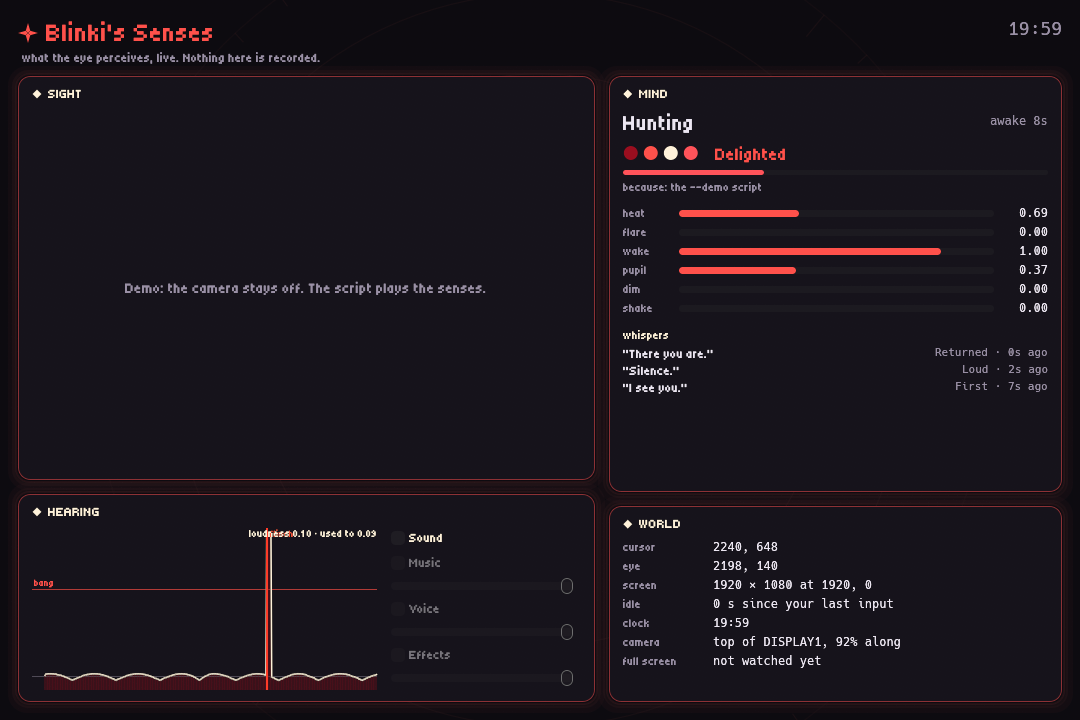
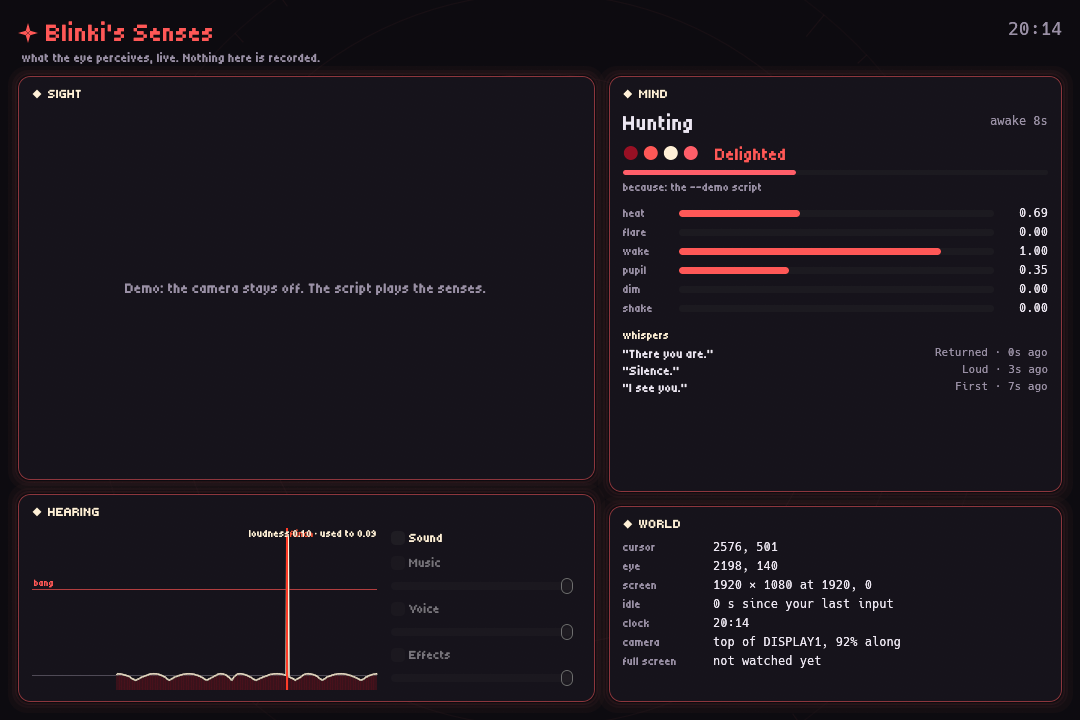
README: the new sphere in the GIF and stills; tool runs skip single instance
The hero GIF, the nine mood stills and the Blinki's Senses shot are
re-rendered from the app with the merged sphere (raymarched body,
layered aura) and the latest moods. The README now covers hiding for
full-screen apps, the opt-in wake word, the raymarched shader and
motion, 168 tests on Windows CI, and a 27.5 MB exe.

Runs with --record or --demo are tools, like --snap: they no longer
defer to a copy of the app that's already running.

diff --git a/rust/src/main.rs b/rust/src/main.rs
@@ -1681,8 +1681,8 @@ fn main() -> Result<(), Box<dyn Error>> {
     }
     let args = Args::parse();
     // One eye at a time. A second launch wakes the first and leaves. Runs
-    // with --snap are tools, so they don't take part.
-    let instance = if args.snap.is_some() {
+    // with --snap, --record or --demo are tools, so they don't take part.
+    let instance = if args.snap.is_some() || args.record.is_some() || args.demo {
         None
     } else {
         match session::SingleInstance::claim() {

diff --git a/README.md b/README.md
@@ -51,7 +51,9 @@ The eye sees you from the camera's spot but looks at you from its own, so it nee
 - **Whispers** under the eye in the Tiny5 pixel font, spoken aloud if you like by Windows' own local voice.
 - **A sound mixer**: Music (a live-synthesised drone), Voice, and Effects (a deep whoomp at a bang, a chime with each whisper), each with its own switch and volume, under one master.
 - **Themes, feelings and Remembrance**, as above. Reading your expression is opt-in and off by default.
-- **A tray menu** (also on right-click of the eye): hide, blind, whispers, Sound, click-through, start with the computer, Theme, Read my face, Remember our days, Forget our days, Blinki's Senses, Where's my camera?, Look at me, Banish.
+- **A tray menu** (also on right-click of the eye): hide, blind, whispers, Sound, click-through, hide when something's full screen, the wake word, start with the computer, Theme, Read my face, Remember our days, Forget our days, Blinki's Senses, Where's my camera?, Look at me, Banish.
+- **It gets out of the way.** Start a full-screen game, video or presentation, and it closes and hides, then fades back in, pouting, when you return.
+- **"Hey, OG Blinki"**: an opt-in wake word, matched on the computer by Windows' own speech recognizer, with no cloud. Off by default.
 - **One copy at a time.** Launching it again just wakes the eye.
 - **A per-user installer** with a Start menu shortcut and an uninstaller.
 
@@ -69,7 +71,7 @@ Measured on this PC (Windows 11, RTX 3060), with both apps idle and blinded, aga
 
 | | Electron | Rust |
 | --- | --- | --- |
-| What ships | 356.8 MB runtime + 0.5 MB of app | one exe, models and font inside (22.3 MB as measured; 27.4 MB now that the 4.8 MB expression model is in) |
+| What ships | 356.8 MB runtime + 0.5 MB of app | one exe, models and font inside (22.3 MB as measured; 27.5 MB now, with the 4.8 MB expression model and the new sphere) |
 | Installer | (none) | 7.6 MB setup |
 | Processes | 5 | 1 |
 | Working set | 448.7 MB | 134.9 MB |
@@ -78,9 +80,9 @@ Measured on this PC (Windows 11, RTX 3060), with both apps idle and blinded, aga
 
 ## Under the hood
 
-- **Rust** throughout, about 117 tests (`cargo test`), with the Electron code kept for reference until the switch-over.
+- **Rust** throughout, 168 tests (`cargo test`), checked on Windows CI with clippy and formatting, with the Electron code kept for reference until the switch-over.
 - **winit 0.30 + wgpu 30.** The eye is one fragment shader. For a transparent window on Windows, DX12 presents through a **DirectComposition** swapchain with **premultiplied alpha** (a plain swapchain can't be see-through), with Vulkan as a fallback. A transparent first frame means it never flashes a black box.
-- **The shader** is GLSL, compiled for DX12 or Vulkan by **naga**. The fire is 3D noise sampled on the sphere's surface, so it wraps with the ball, with a hotter inner layer seen through its veins and a solid pupil.
+- **The shader** is GLSL, compiled for DX12 or Vulkan by **naga**. The body is raymarched: a signed-distance sphere with layered fire inside, a hotter core seen through its veins, and a solid pupil. Around it sits a layered aura: rim bloom, halo, corona, tongues of light and curling embers. A small motion layer gives the mind's wishes a body (breath, gaze velocity, a wince). Frame pacing keeps it light when nothing's changing.
 - **Face detection**: YuNet (ONNX), run by **tract**, a pure-Rust inference engine, on its own camera thread (**nokhwa**). The box decoding and non-maximum suppression are written by hand.
 - **Sound**: **cpal** streams in both directions. The drone and the effects are synthesised sample by sample in the audio callback, without allocating, steered through atomics. Speech uses the system voice via **tts**.
 - **egui** (on the same wgpu device) draws the whispers, Blinki's Senses and the camera picker. **tray-icon + muda** do the menu, **global-hotkey** the shortcut, and **serde** the prefs (shared with the Electron app's `prefs.json`).
